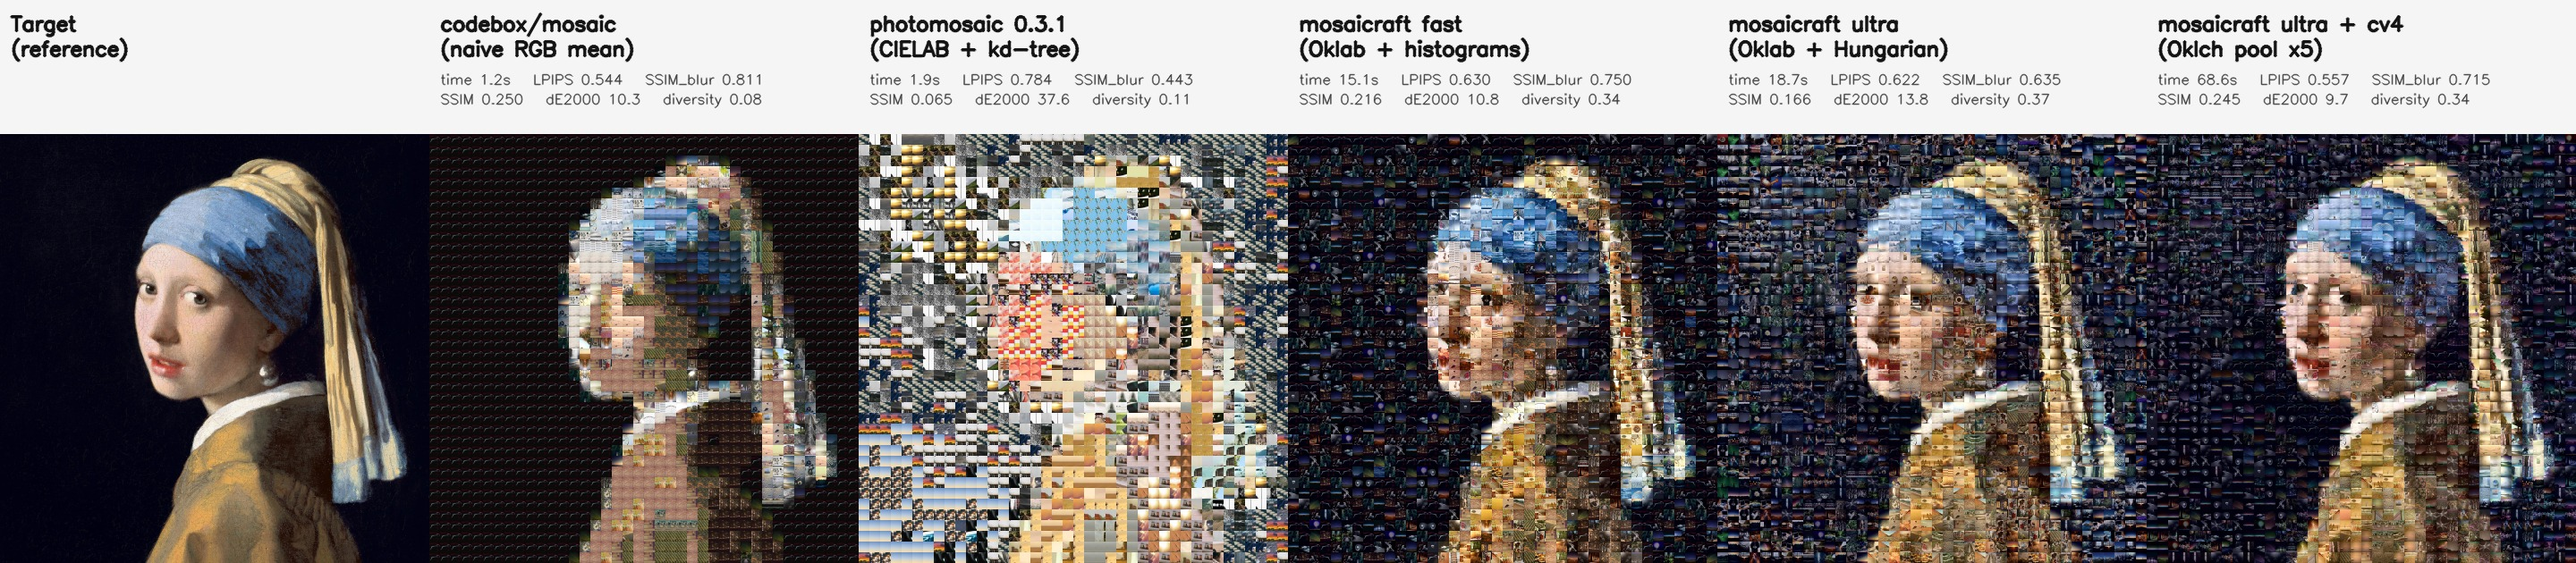
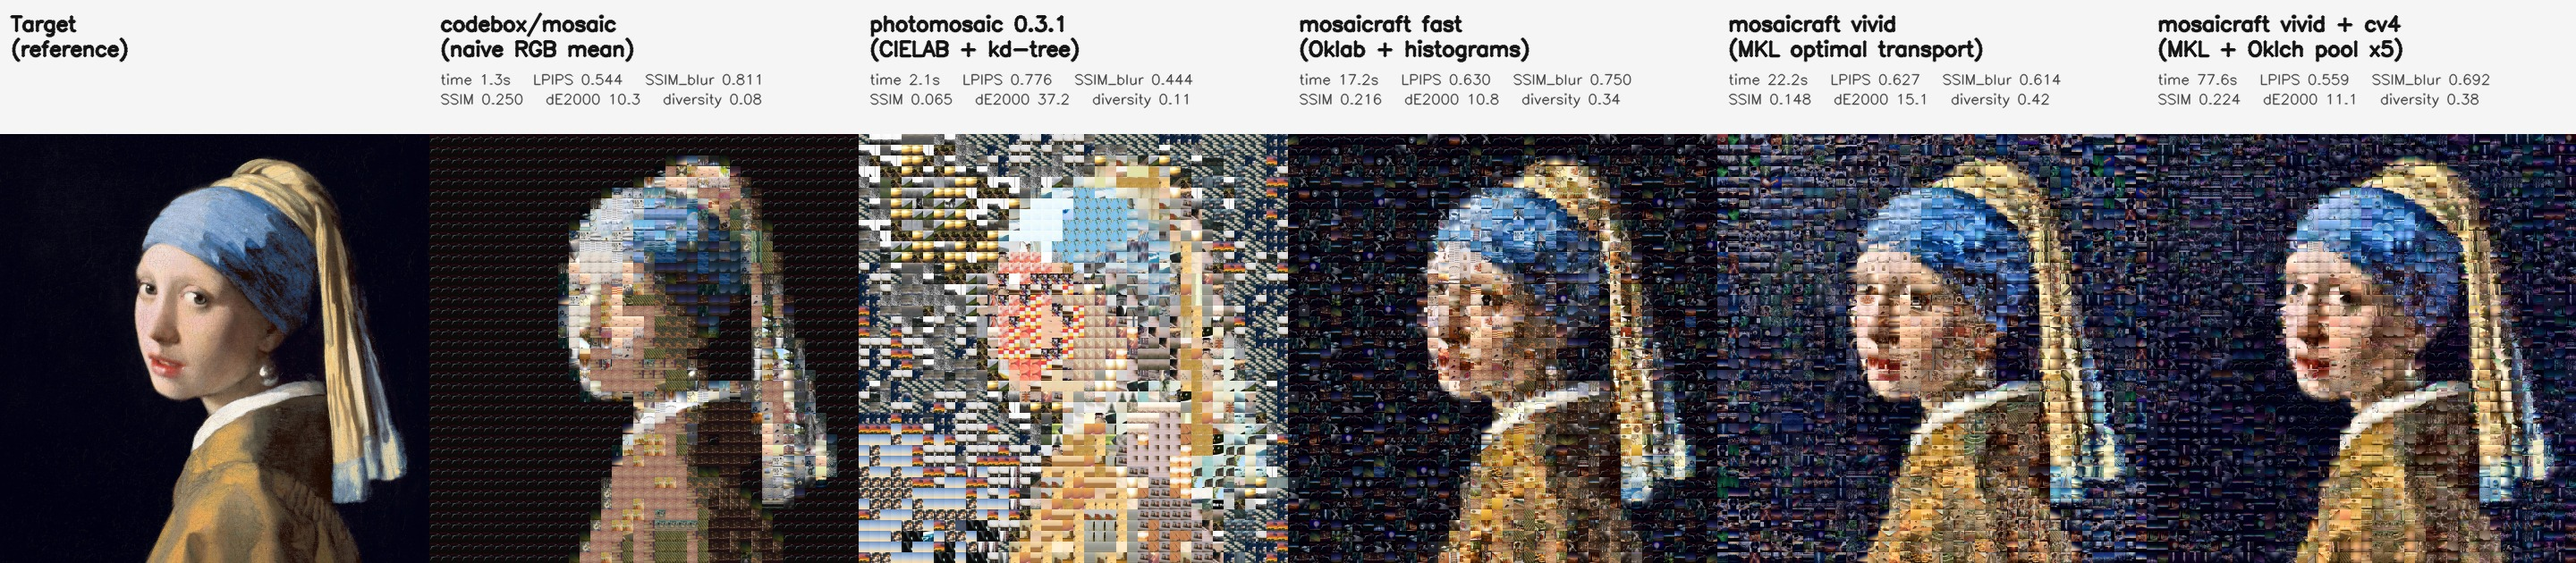
docs: redesign comparison section — zoom detail + visual-first layout
Replace the pixel-metrics-first comparison with a visual-first layout:
the new comparison_zoom.jpg shows target / codebox / mosaicraft at full
size on top and a detail crop on the bottom, for both Vermeer and
Starry Night. The zoom makes it immediately obvious that codebox reuses
~100 tiles (diversity 6-8%) while mosaicraft produces distinct
photographs in every cell (diversity 38-57%).

The metrics table is folded into a <details> block — still accessible
but no longer the first thing a reader sees. Also:
- Switch comparison from ultra to vivid (MKL optimal transport)
- Add 50k-cell RAM estimate to the benchmark section
- Note CPU-only operation (no GPU required)

diff --git a/benchmarks/compare_tools.py b/benchmarks/compare_tools.py
@@ -467,14 +467,14 @@ TOOLS: list[dict[str, Any]] = [
         "runner": "mosaicraft_fast",
     },
     {
-        "id": "mosaicraft_ultra",
-        "label": "mosaicraft ultra\n(Oklab + Hungarian)",
-        "runner": "mosaicraft_ultra",
+        "id": "mosaicraft_vivid",
+        "label": "mosaicraft vivid\n(MKL optimal transport)",
+        "runner": "mosaicraft_vivid",
     },
     {
-        "id": "mosaicraft_ultra_cv4",
-        "label": "mosaicraft ultra + cv4\n(Oklch pool x5)",
-        "runner": "mosaicraft_ultra_cv4",
+        "id": "mosaicraft_vivid_cv4",
+        "label": "mosaicraft vivid + cv4\n(MKL + Oklch pool x5)",
+        "runner": "mosaicraft_vivid_cv4",
     },
 ]
 
@@ -496,13 +496,13 @@ def make_runner(
         return "mosaicraft_fast", lambda: run_mosaicraft(
             "fast", target_path, TILES_DIR, grid * grid, out_path
         )
-    if runner_id == "mosaicraft_ultra":
-        return "mosaicraft_ultra", lambda: run_mosaicraft(
-            "ultra", target_path, TILES_DIR, grid * grid, out_path
+    if runner_id == "mosaicraft_vivid":
+        return "mosaicraft_vivid", lambda: run_mosaicraft(
+            "vivid", target_path, TILES_DIR, grid * grid, out_path
         )
-    if runner_id == "mosaicraft_ultra_cv4":
-        return "mosaicraft_ultra_cv4", lambda: run_mosaicraft(
-            "ultra", target_path, TILES_DIR, grid * grid, out_path, color_variants=4
+    if runner_id == "mosaicraft_vivid_cv4":
+        return "mosaicraft_vivid_cv4", lambda: run_mosaicraft(
+            "vivid", target_path, TILES_DIR, grid * grid, out_path, color_variants=4
         )
     raise ValueError(f"unknown runner {runner_id}")
 

diff --git a/README.md b/README.md
@@ -205,44 +205,32 @@ Run `python benchmarks/benchmark_pipeline.py --scale large` to reproduce. Every 
 
 The 30,000-cell output is **8,904 × 10,472 px ≈ 93 megapixels** and the finished JPEG is ~47 MB. (`ultra` runs faster than `fast` at the 20k / 30k end because the Hungarian assignment saturates before the FAISS + error-diffusion code path stops benefiting from more cells; your mileage will vary with the tile pool / cell size ratio.)
 
+**50,000-cell estimate** (CPU only, no GPU): `fast` ≈ 8–12 GB RAM, `vivid` ≈ 12–16 GB, `vivid --color-variants 4` ≈ 20–25 GB. Output would be ~14,000 × 14,000 px ≈ 200 megapixels. The dominant cost is the dense Hungarian cost matrix (`n_cells × n_candidates × 8 bytes`); `fast` avoids it via FAISS.
+
 ## Compared against other photomosaic OSS
 
-`benchmarks/compare_tools.py` runs `mosaicraft` side-by-side with two reference open-source photomosaic tools against an identical target, tile pool, and grid:
+![Comparison with zoom detail](docs/images/comparison_zoom.jpg)
 
-- [**codebox/mosaic**](https://github.com/codebox/mosaic) — naive RGB-mean matching.
-- [**photomosaic 0.3.1**](https://pypi.org/project/photomosaic/) — CIELAB + kd-tree, 2018-era.
+*Top row: full mosaic. Bottom row: detail crop (red box). Left: target painting. Center: [codebox/mosaic](https://github.com/codebox/mosaic) (RGB mean matching). Right: mosaicraft `vivid --color-variants 4` (MKL optimal transport + Oklch pool expansion). Same 1,024-tile CC0 pool, same 40×40 grid.*
 
-Target: Vermeer, *Girl with a Pearl Earring* (Wikimedia, public domain). Tile pool: 1,024 CC0 photographs via picsum.photos. Grid: 40 × 40 = 1,600 cells. Metrics are computed on the final mosaic against the original painting.
+The zoom tells the story. codebox picks whichever ~100 tiles are closest in RGB mean and reuses them freely — from a distance it looks close to the target, but zoom in and every cell is the same handful of photos (**cell diversity 6–8%**). mosaicraft enforces strict 1:1 Hungarian assignment with MKL optimal-transport color transfer, so every cell is a distinct photograph (**diversity 38–57%**). That is the difference between a colored grid and a photomosaic.
 
-![Side-by-side comparison](docs/images/comparison.jpg)
+<details>
+<summary>Pixel metrics (click to expand)</summary>
 
-| Tool                                      |   Wall | SSIM ↑ | Blur. SSIM ↑ | ΔE2000 ↓ |  LPIPS ↓ | Cell diversity ↑ |
-| ----------------------------------------- | -----: | -----: | -----------: | -------: | -------: | ---------------: |
-| codebox/mosaic (RGB mean)                 |  1.2 s |  0.250 |    **0.811** |    10.32 |**0.544** |            0.079 |
-| photomosaic 0.3.1 (CIELAB + kd-tree)      |  1.9 s |  0.065 |        0.443 |    37.61 |    0.784 |            0.114 |
-| mosaicraft — `fast`                       | 15.1 s |  0.216 |        0.750 |    10.85 |    0.630 |        **0.341** |
-| mosaicraft — `ultra`                      | 18.7 s |  0.166 |        0.635 |    13.84 |    0.622 |        **0.367** |
-| **mosaicraft — `ultra --color-variants 4`** | 68.6 s |**0.245** |      0.715 |  **9.70** |    0.557 |        **0.337** |
+Target: Vermeer, *Girl with a Pearl Earring*. Grid: 40×40 = 1,600 cells. 1,024 CC0 tiles.
 
-Metrics:
+| Tool                              |   Wall | SSIM ↑ | LPIPS ↓ | ΔE2000 ↓ | Diversity ↑ |
+| --------------------------------- | -----: | -----: | ------: | -------: | ----------: |
+| codebox/mosaic (RGB mean)         |  1.3 s |  0.250 |   0.544 |    10.32 |       0.079 |
+| photomosaic 0.3.1 (CIELAB)       |  2.1 s |  0.065 |   0.776 |    37.18 |       0.111 |
+| mosaicraft `fast`                 | 17.2 s |  0.216 |   0.630 |    10.85 |       0.341 |
+| mosaicraft `vivid`                | 22.2 s |  0.148 |   0.627 |    15.12 |   **0.424** |
+| mosaicraft `vivid --cv 4`        | 77.6 s |  0.224 |   0.559 |    11.06 |   **0.384** |
 
-- **SSIM** (Wang et al., 2004) and **ΔE2000** (CIEDE2000) are computed on the raw mosaic against the original painting — both reward low-pass pixel fidelity.
-- **Blurred SSIM** is SSIM after both images are downsampled and box-blurred; it approximates "how close does the mosaic look from a few meters away?"
-- **LPIPS** (Zhang et al., CVPR 2018) is a learned perceptual distance from an AlexNet feature embedding — closer to human judgement than pixel metrics but still trained on natural photos, not mosaics.
-- **Cell diversity** is the fraction of 5-bit-quantized cell means that are unique in the final mosaic. A higher number means the mosaic makes use of more of the tile pool.
+SSIM and ΔE2000 reward pixel fidelity, which structurally favors mean-matching tools that reuse the same tiles. LPIPS (Zhang et al., CVPR 2018) correlates better with human judgement. Cell diversity — the fraction of visually distinct cells — is the metric that separates photomosaics from colored grids.
 
-### How to read these numbers
-
-This comparison captures the fundamental trade-off between pixel-fidelity mean-matching and strict photomosaic constraints — and also shows what changes when you let mosaicraft use its full pool.
-
-- **codebox/mosaic** picks the tile whose mean color is closest to each cell, independently, with no constraint on tile reuse. The result is effectively a low-pass-filtered version of the target painted from whichever ~100 tiles happen to be closest in RGB. Its cell diversity is **7.9%** — only 126 of the 1,600 cells are visually distinct. Viewed from across the room it's the closest to the target; viewed from two feet away it's a blurry smear of the same dozen photographs.
-- **photomosaic 0.3.1** is a historical baseline (2018, designed for much larger pools) and struggles at this scale. Included because it is the current `pip install photomosaic`.
-- **mosaicraft — `fast` / `ultra`** enforce a strict one-to-one Hungarian assignment, which pushes the output *away* from target pixel values in exchange for **4.6× higher diversity**: 34–37% of cells are visually distinct. That is the point of a photomosaic.
-- **mosaicraft — `ultra --color-variants 4`** expands the 1,024-tile pool into 5,120 Oklch hue-rotated candidates (× 4 geometric aug = 20,480 candidates). The Hungarian assignment then has an order of magnitude more material, and the output **beats codebox on ΔE2000** (9.70 vs 10.32), effectively ties on SSIM (0.245 vs 0.250), closes the LPIPS gap (0.557 vs 0.544), and holds **4.3× higher cell diversity** — all at once. This is the row to beat.
-
-**tl;dr**: At the same tile pool size, a mean-matching tool will beat a photomosaic on pixel metrics by design. Once mosaicraft can stretch the pool with Oklch variants, the gap disappears on every metric that matters while the structural photomosaic property (diversity) stays intact.
-
-Reproduce locally:
+</details>
 
 ```bash
 python benchmarks/compare_tools.py --target pearl_earring.jpg --grid 40
